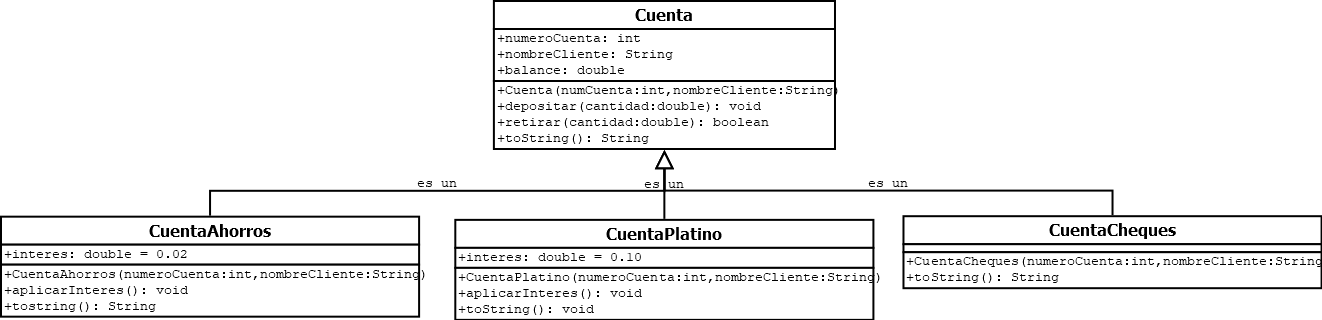
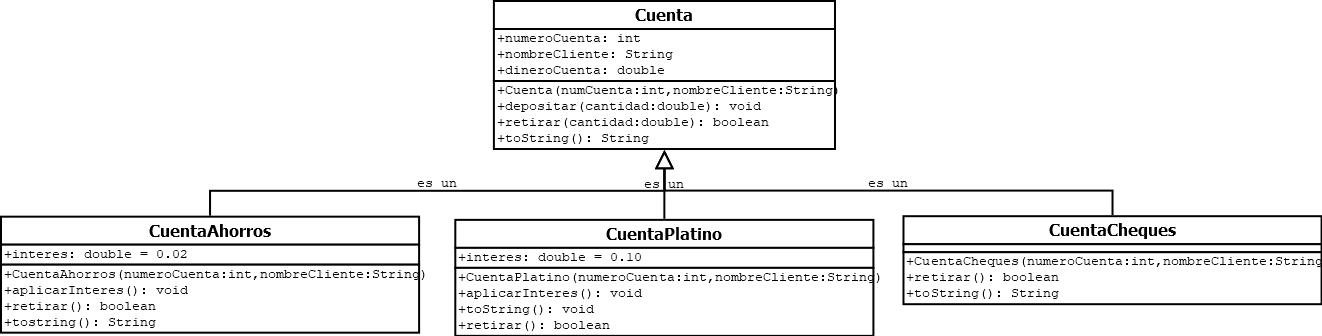
Problemas

Changed region(s): [[0.0, 0.0, 1.0, 1.0]]

diff --git a/Solucion_Codigo/ProblemasUML/src/Problema6_Banco.java b/Solucion_Codigo/ProblemasUML/src/Problema6_Banco.java
@@ -16,7 +16,7 @@ public class Problema6_Banco {
         cuenta2.aplicarInteres();
         cuenta3.aplicarInteres();
 
-        // Mostrar balances
+        // Mostrar dineroCuentas
         System.out.println(cuenta1);
         System.out.println(cuenta2);
         System.out.println(cuenta3);
@@ -51,7 +51,7 @@ class Cuenta {
 
     @Override
     public String toString() {
-        return "Cuenta [numeroCuenta=" + numeroCuenta + ", nombreCliente=" + nombreCliente + ", balance=" + balance + "]";
+        return "Cuenta [numeroCuenta=" + numeroCuenta + ", nombreCliente=" + nombreCliente + ", dineroCuenta=" + dineroCuenta + "]";
     }
 }
 
